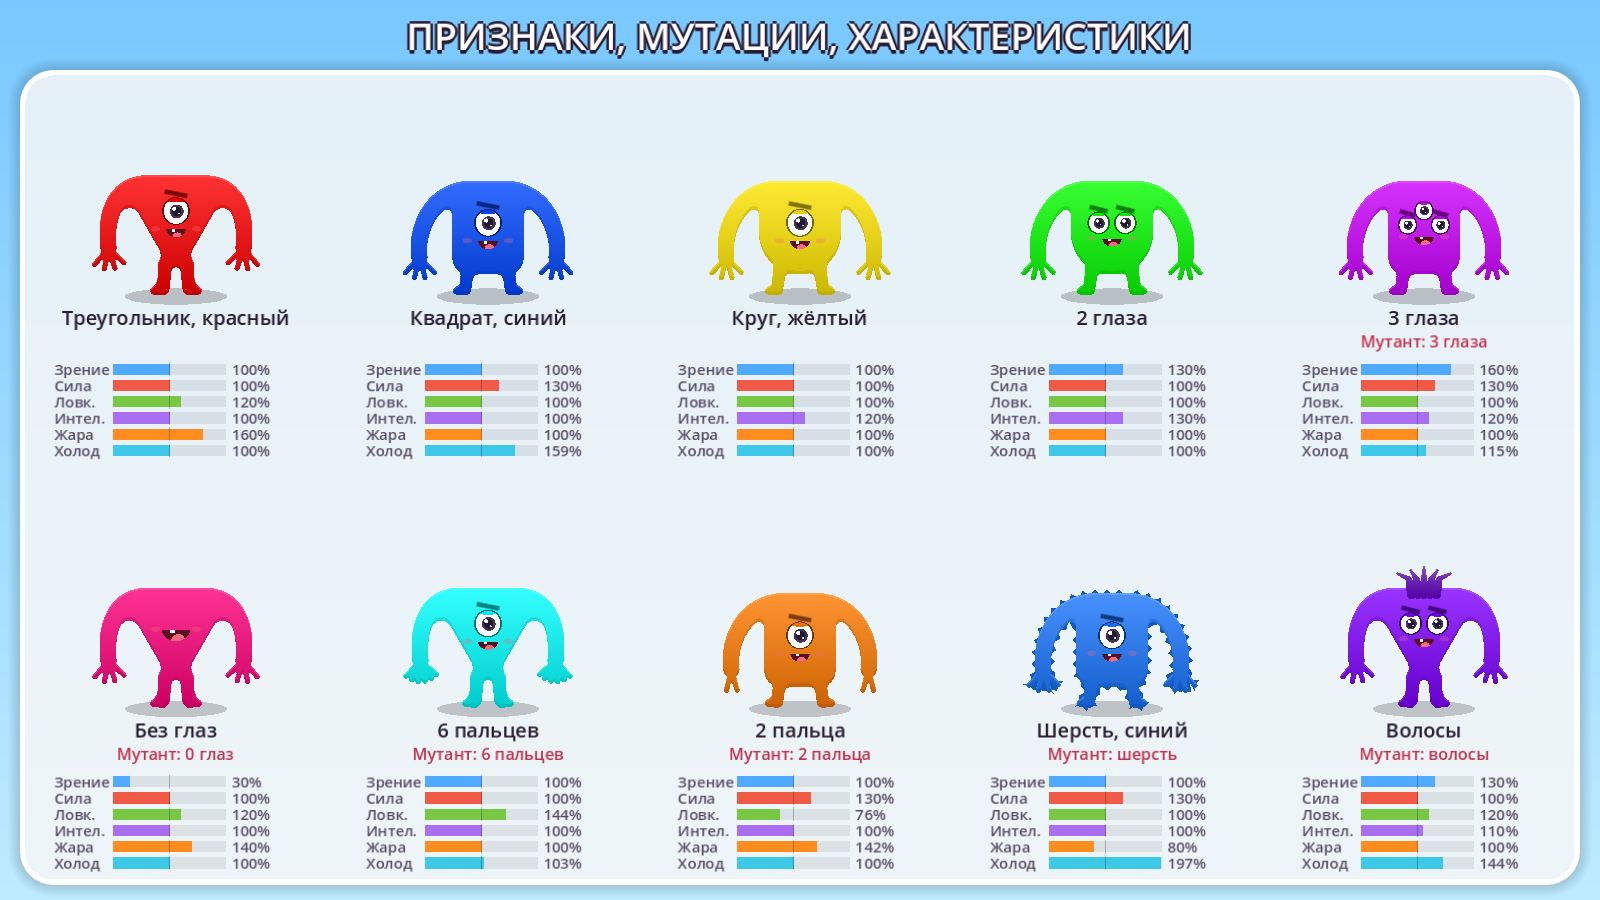
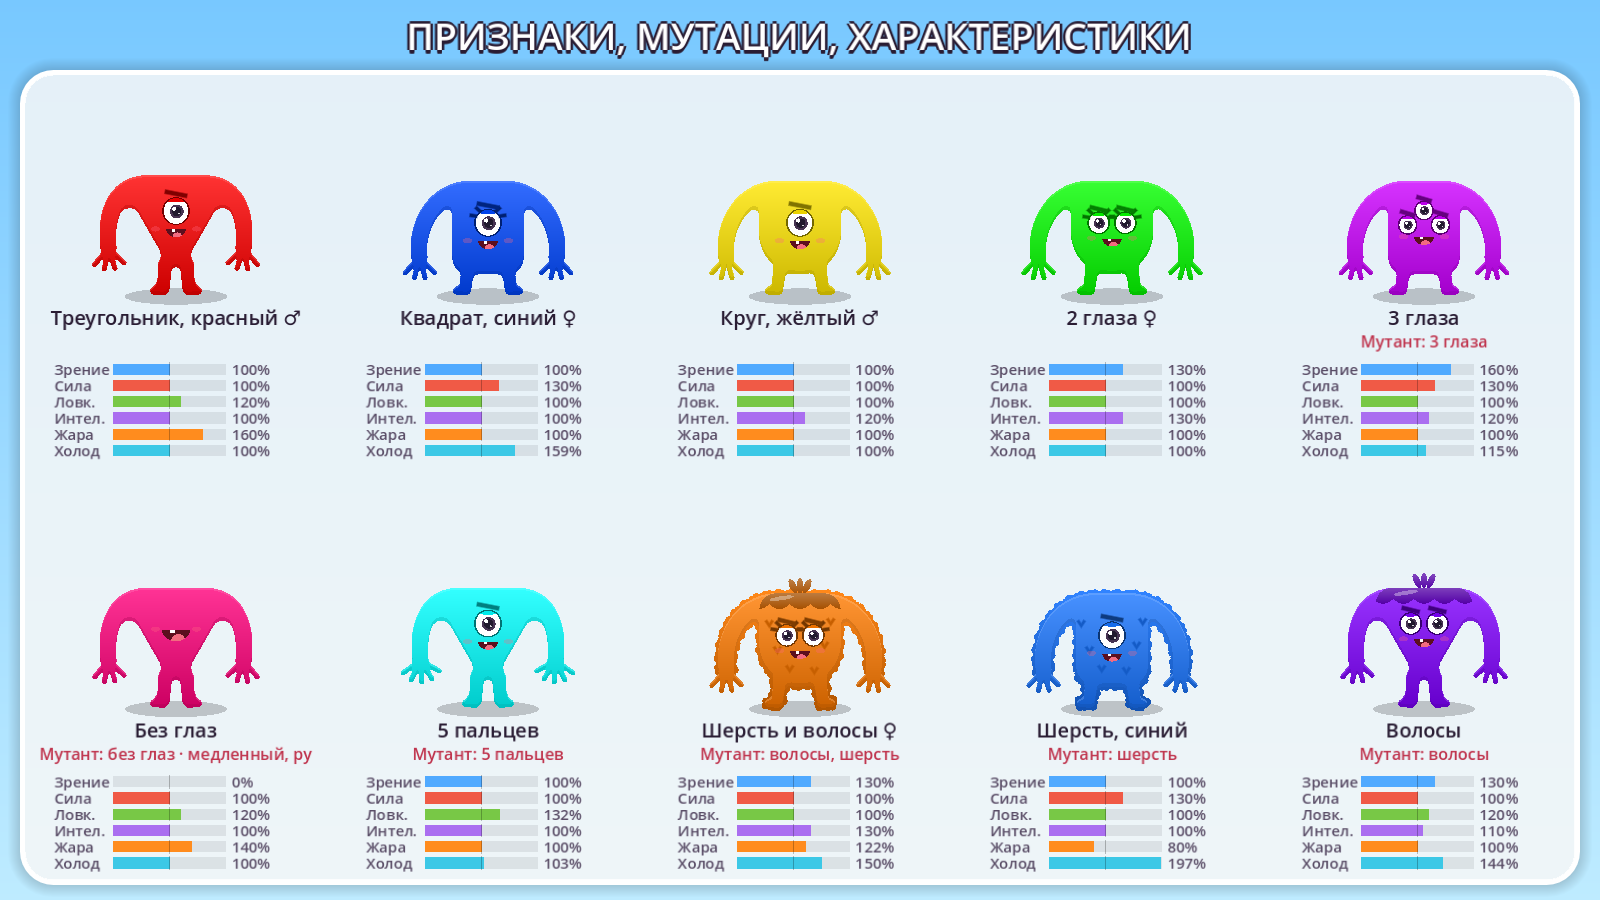
Жители: брови у всех глаз, 5 пальцев у мутанта, новые шерсть и волосы, пол
- у трёхглазого бровь и над верхним глазом
- мутация пальцев — 5, веер с тем же шагом, что у 4 (пальцы раздельно)
- шерсть — пушистый край кружками по контуру и прядки на теле
- волосы — шапочка с волнистой чёлкой и хохолок из трёх прядей
- пол: мужской/женский поровну, у жительниц ресницы
- без глаз: зрение 0, работа и ходьба ×0.3, руда в глубине ×2 (Genetics.abilities)

Claude-Session: https://claude.ai/code/session_016LhimkttaYpRVNZ3oj9mAA

diff --git a/docs/GDD.md b/docs/GDD.md
@@ -185,9 +185,13 @@
   - пальцы — среднее двух копий (обычно 4);
   - волосы и шерсть — только если обе копии их несут (иначе житель — скрытый носитель).
 - Основатели колонии — максимально яркие цвета (полная насыщенность и яркость), глаз 1 (иногда 2).
+- Пол — мужской или женский, поровну; у жительниц — ресницы.
 - **Мутация** — в 1 рождении из 10, меняет один признак и наследуется: цвет (любой, в т.ч. тёмный),
-  глаза (0, 2, 3), пальцы (2, 3, 5, 6), волосы, шерсть, форма. В карточке: «Мутант: 3 глаза».
-- **Характеристики** (100% — норма): зрение — от глаз (0 → 30%, 2 → 130%, 3 → 160%); треугольник —
+  глаза (0, 2, 3), пальцы (5), волосы (шапочка с чёлкой и хохолком), шерсть (пушистый
+  край по контуру и прядки на теле), форма. В карточке: «Мутант: 3 глаза».
+- **Без глаз**: зрение 0, всё делает и ходит оооочень медленно (×0.3), но в тёмных глубинах
+  добывает руду вдвое лучше.
+- **Характеристики** (100% — норма): зрение — от глаз (0 → 0%, 2 → 130%, 3 → 160%); треугольник —
   ловкость +20%, квадрат — сила +30%, круг — интеллект +20%; лишний глаз — интеллект +10%;
   палец сверх 4 — ловкость ±12%; красные — жара до +60%, синие — холод до +60%; шерсть — холод +40%,
   жара −20%; волосы — холод +10%.
